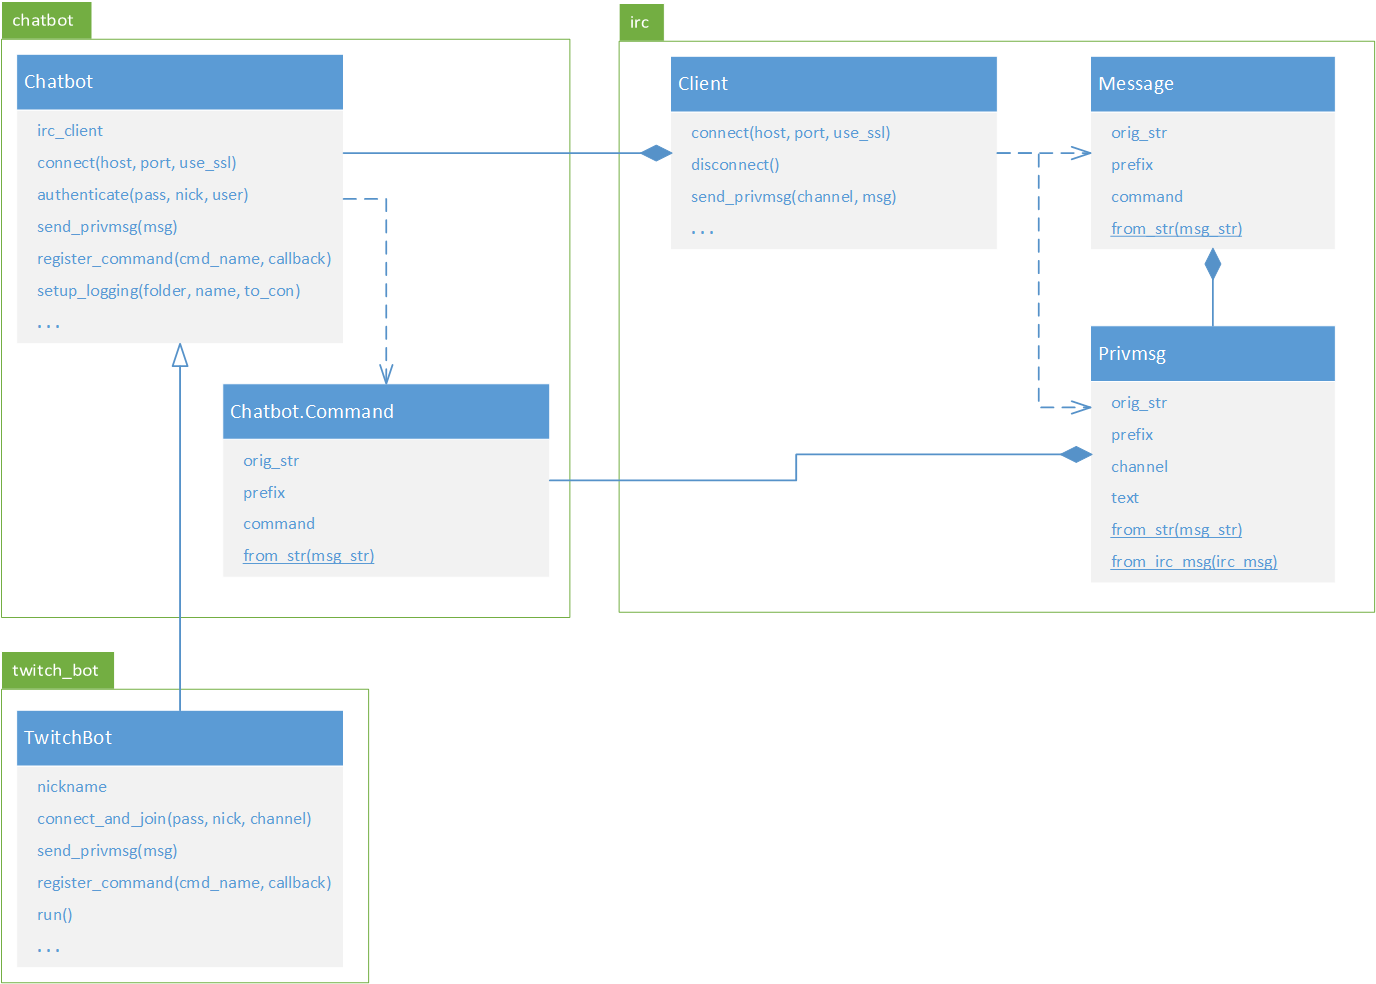
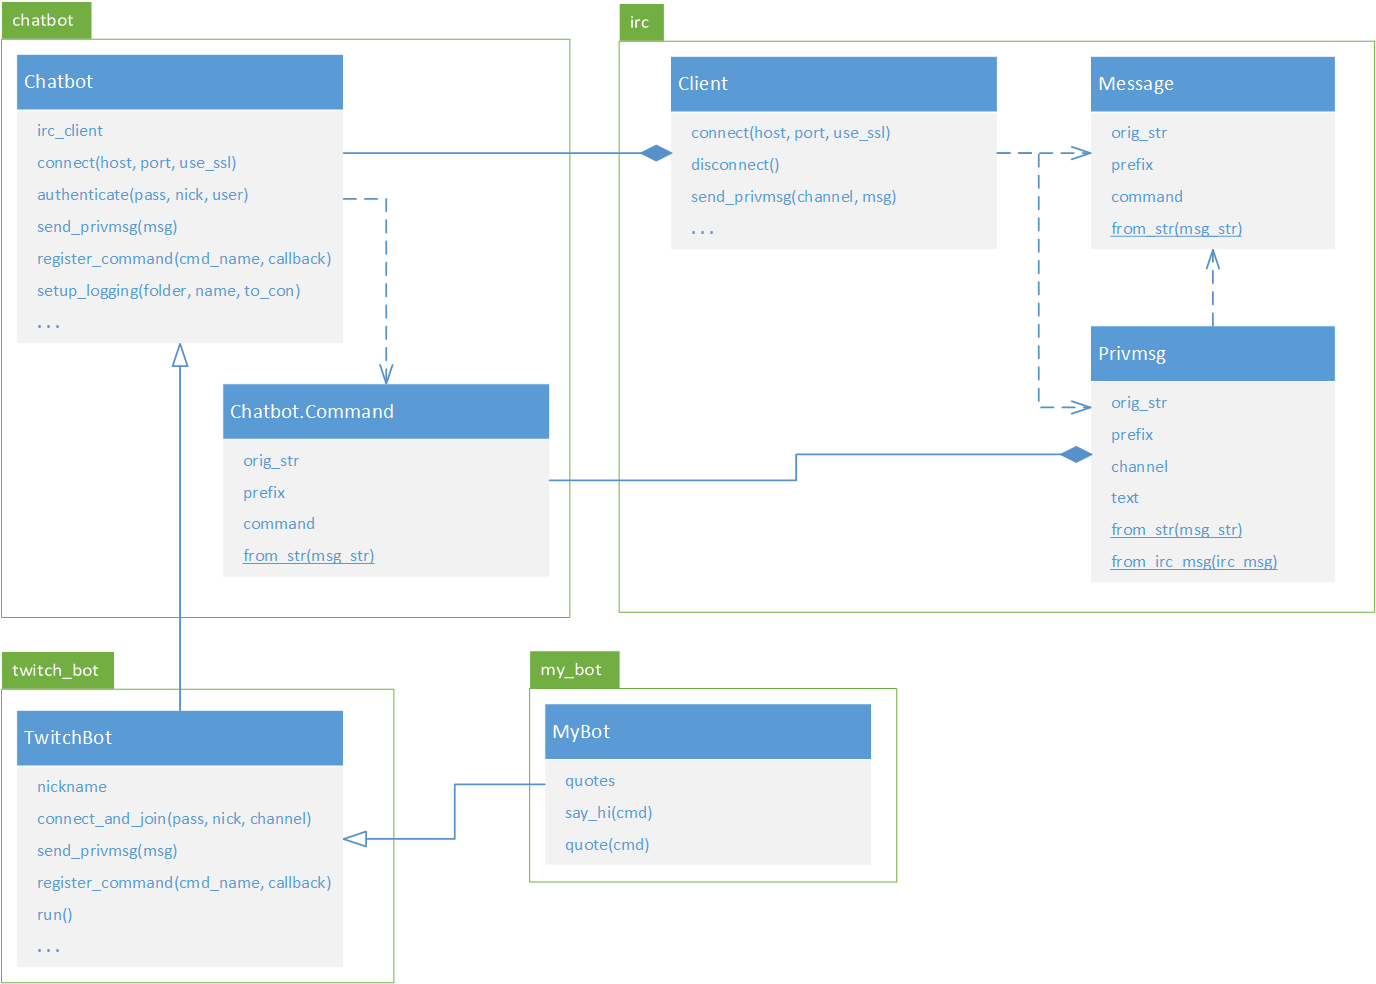
Added chapter 11 Readme section and TODO comments. Slightly refactored and documented code.

Changed region(s): [[0.375, 0.6402, 0.6562, 0.8841], [0.25, 0.8232, 0.3125, 0.8537], [0.875, 0.2439, 0.9062, 0.2744]]

diff --git a/my_bot.py b/my_bot.py
@@ -10,20 +10,30 @@ from twitch_bot import *
 
 class MyBot(TwitchBot):
 	def __init__(self, logs_folder, quotes):
-		super().__init__(logs_folder, log_to_console=True, pokemon_exception_handling=True)
+		# Construire la classe parent en lui passant le dossier de journaux.
+		super().__init__(logs_folder)
+		# On garde le dictionnaire de citations (paramètre `quotes`) dans une variable d'instance.
 		self.quotes = quotes
 
-	@TwitchBot.command
+	# TODO: Ajouter une commande "say_hi" (à l'aide du décorateur TwitchBot.command) qui répond avec un message de la forme:
+	#       "My name is <nom-du-bot>. You killed my father. Prepare to die.", où <nom-du-bot> est le nom du compte utilisé par le chatbot.
+	#       Indice : Dans la méthode connect_and_join de TwitchBot, le nom (nickname) du bot est gardé comme attribut.
+	@TwitchBot.new_command
 	def say_hi(self, cmd: Chatbot.Command):
-		self.send_privmsg(f"Haha! 'Tis I, {self.nickname}!")
+		self.send_privmsg(f"My name is {self.nickname}. You killed my father. Prepare to die.")
 
-	@TwitchBot.command
+	# TODO: Ajouter une commande "quote" qui répond de trois façons selon ce qui suit le nom de la commande dans le message.
+	@TwitchBot.new_command
 	def quote(self, cmd: Chatbot.Command):
+		# Si un nom de catégorie est donné (on trouve les paramètres de la commande dans cmd.params) :
 		if cmd.params is not None:
+			# Si la catégorie est connue, on envoie au hasard une citation venant de cette catégorie si elle est connue, sinon
 			if cmd.params in self.quotes:
 				self.send_privmsg(random.choice(self.quotes[cmd.params]))
+			# Sinon, on envoie un message disant que la catégorie est inconnue (ex. "Unrecognized category 'la_catégorie'")
 			else:
 				self.send_privmsg(f"Unrecognized category '{cmd.params}'.")
+		# Si aucune catégorie n'est fournie, on choisit au hasard une catégorie puis une citation (comme dans l'exemple du chapitre 8)
 		else:
 			random_category = random.choice(tuple(self.quotes.keys()))
 			random_quote = random.choice(self.quotes[random_category])

diff --git a/twitch_bot.py b/twitch_bot.py
@@ -18,12 +18,12 @@ class TwitchBot(Chatbot):
 	"""
 	Chat bot base class made specifically for Twitch
 
-	In derived classes, commands handlers (responding to '!<command>' messages) are registered using the `@TwitchBot.command` decorator and must be methods that take a `Chatbot.Command` as parameter (along with self). The method name is used as command name and is not case-sensitive. The method docstring is used as help text if user types !help <command>. The name of the command (preceded or not by !) can be ommitted and will be inserted automatically.
+	In derived classes, commands handlers (responding to '!<command>' messages) are registered using the `@TwitchBot.new_command` decorator and must be methods that take a `Chatbot.Command` as parameter (along with self). The method name is used as command name and is not case-sensitive. The method docstring is used as help text if user types !help <command>. The name of the command (preceded or not by !) can be ommitted and will be inserted automatically.
 
 	Example: 
 	.. code-block:: python
 		class SomeBot(TwitchBot):
-			@TwitchBot.command
+			@TwitchBot.new_command
 			def my_command(self, cmd: Chatbot.Command):
 				'''{some_required_param} [some_optional_param]'''
 				# Do something
@@ -36,7 +36,7 @@ class TwitchBot(Chatbot):
 	"""
 
 	@classmethod
-	def command(cls, fn):
+	def new_command(cls, fn):
 		fn.is_command_function = True
 		return fn
 

diff --git a/chatbot.py b/chatbot.py
@@ -25,7 +25,15 @@ class Chatbot:
 
 	@dataclass
 	class Command:
-		privmsg: str
+		"""
+		A command understood by the chatbot.
+
+		:ivar privmsg: The original irc.Privmsg object that formed the command.
+		:ivar name: The name of the command, without the prepending command character.
+		:ivar params: The text following the command.
+		"""
+
+		privmsg: irc.Privmsg
 		name: str
 		params: str
 

diff --git a/ch11.py b/ch11.py
@@ -14,6 +14,7 @@ def run_ch11_example():
 	config = load_config(opts.config_file)
 	quotes = load_quotes(opts.quotes_file)
 
+	# TODO: Construire un objet de type `MyBot` avec "logs" comme dossier de journaux et avec les citations extraites du JSON.
 	bot = MyBot("logs", quotes)
 	bot.connect_and_join(config.password, config.nickname, config.channel)
 	bot.run()

diff --git a/README.md b/README.md
@@ -65,7 +65,7 @@ Nous avons vu au chapitre 8 plusieurs formats de fichier, tels que WAV, INI, CSV
 
 ### Charger les données de connection d'un fichier INI
 
-Dans l'exercice précédent, nous avons écrit directement dans le code source le nom du compte, le jeton d'identification et le channel auquel se connecter. Ce n'est clairement pas une bonne pratique. Nous allons plus charger ces données à partir d'un fichier INI ([data/config.ini](data/config.ini)). Il vous faut donc aller mettre votre nom de compte et votre jeton dans le fichier (sous la section `[login]`). Le nom du channel auquel se connecter est dans la section `[chat]`. C'est évidemment *chosson* pour aujourd'hui si vous voulez que votre bot soit visible à la classe.
+Dans l'exercice précédent, nous avons écrit directement dans le code source le nom du compte, le jeton d'identification et le channel auquel se connecter. Ce n'est clairement pas une bonne pratique. Nous allons plus charger ces données à partir d'un fichier INI ([data/config.ini](data/config.ini)). Il vous faut donc aller mettre votre nom de compte et votre jeton dans le fichier (sous la section `[login]`). Le nom du channel auquel se connecter est dans la section `[chat]`. C'est évidemment *chosson* pour aujourd'hui si vous voulez que votre bot soit visible à la classe. Vous pouvez aussi faire les tests sur votre propre chaine pour ne pas poluer le chatroom du cours.
 
 Le code à compléter est dans *ch8.py*
 
@@ -85,6 +85,8 @@ Dans l'exercice précédent, nous avions chargé les données à partir de fichi
 
 On roule le même code qu'au chapitre 8 (en utilisant `run_ch8_example()`) en passant les noms de fichier extraits de la ligne de commande.
 
+Le code à compléter est dans *ch9.py*
+
 Documentation de `argparse` : https://docs.python.org/3/library/argparse.html#the-add-argument-method
 
 ## Révision chapitre 11 (orientée-objet)
@@ -97,7 +99,20 @@ TODO: Décorateurs
 
 ### Créer une classe de chatbot qui met tout le reste ensemble
 
-TODO: Utilisation attendue de la classe `TwitchBot`; Diagramme de classe de la librairie.
+Malgré nos efforts, notre code de chatbot est assez peu élégant (des callbacks en fermetures lexicales enregistrés manuellement). La classe fournie `TwitchBot`, dont on s'est servie directement jusqu'à présent, est en fait écrite pour être utilisée en héritage. On va donc en hériter dans une classe `MyBot` (fichier *my_bot.py*) et utiliser le décorateur `TwitchBot.new_command` pour enregistrer des commandes. Un exemple est donné dans la *docstring* de `TwitchBot`. Ensuite, on va utilser cette classe au lieu de `TwitchBot` pour construire notre bot dans *ch11.py*.
 
-TODO: Donner une citation aléatoire dans une catégorie ou dans tout.
+#### My name is...
+
+On enregistre une commande `!say_hi` à laquelle le bot répond en insérant son nom dans une certaine ligne de dialogue :
+
+<img src="doc/assets/say_hi_example.png">
+
+Dans cet exemple, le bot utilise le compte *chosson_bot2* pour communiquer.
+
+#### You are likely to be eaten...
+
+On enregistre une commande `!quote` à laquelle le bot répond en chosissant une citation aléatoire dans celles chargées du JSON (comme dans les exemples précédents). Toutefois, on peut choisir la catégorie d'où provient la citation. Si on n'en fournie pas, une catégorie au hasard est choisie (même comportement que les exemples précédents).
+
+<img src="doc/assets/quote_example.png">
+
 
